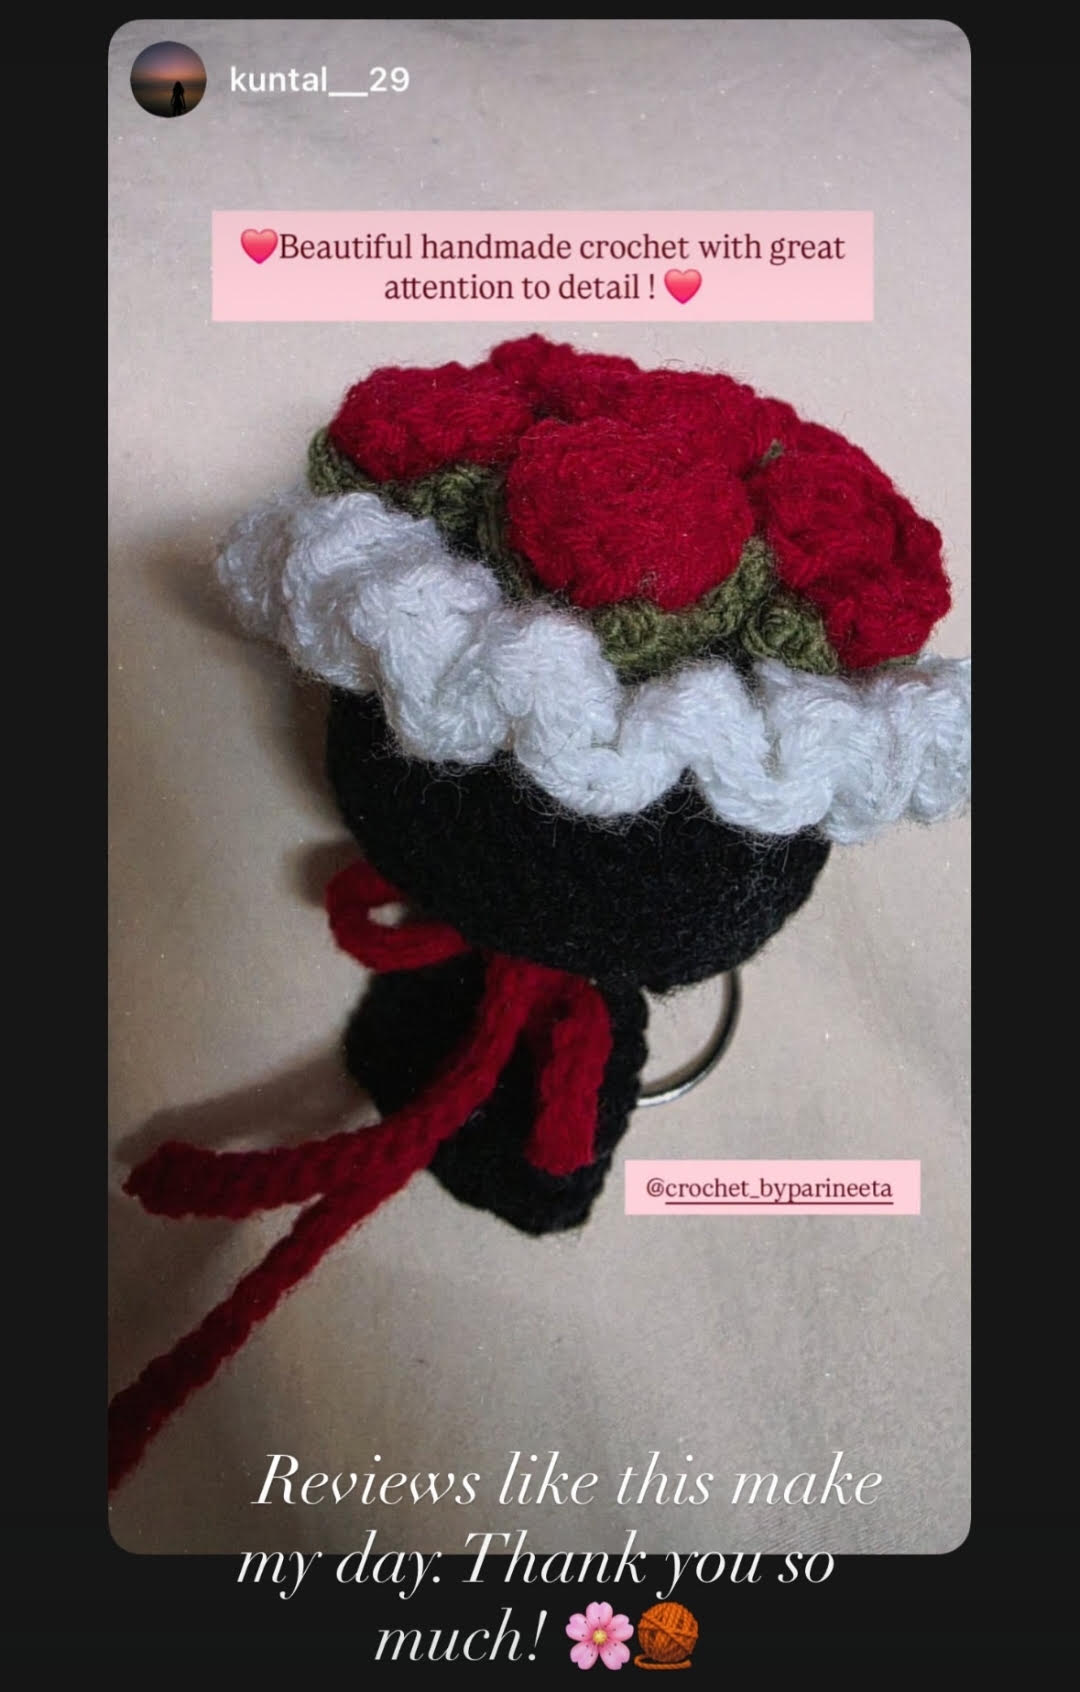
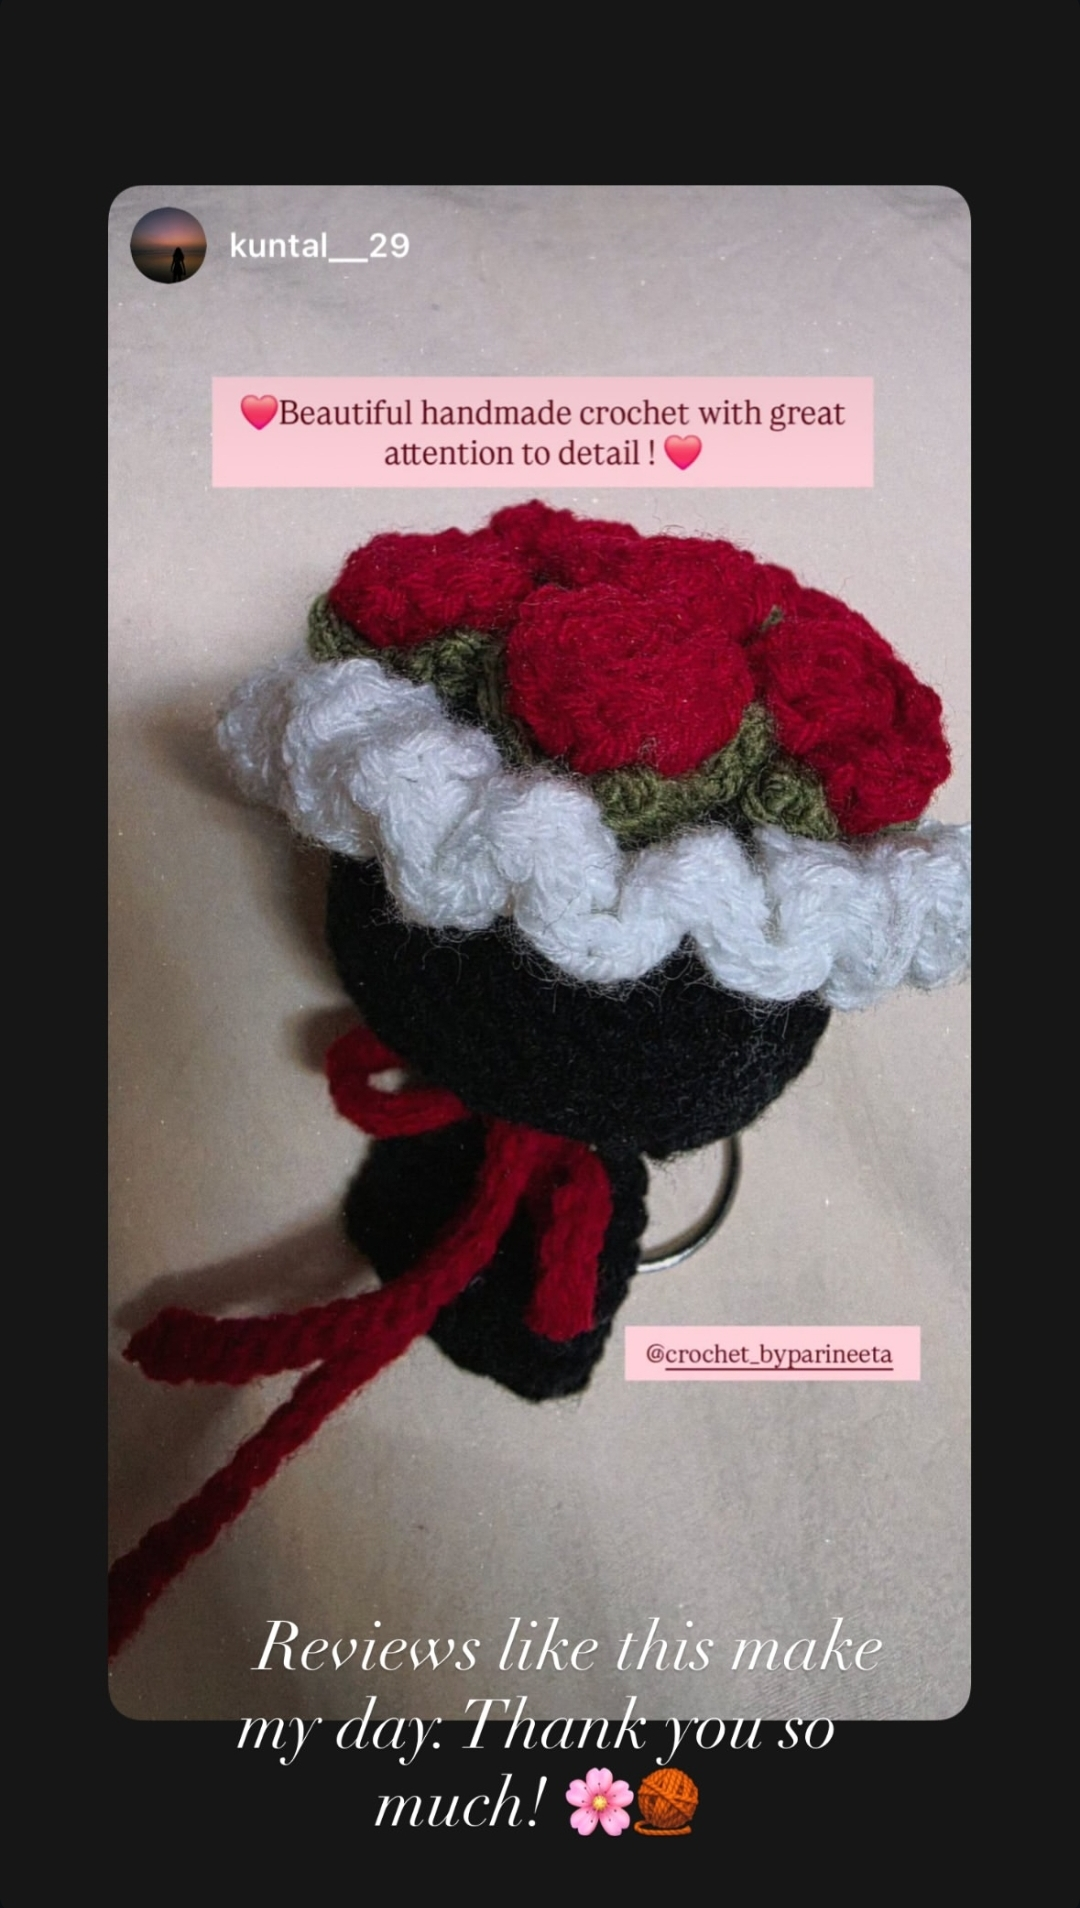
Added review3

diff --git a/css/style.css b/css/style.css
@@ -1172,7 +1172,9 @@ header{
 
     display:block;
 
-    border-radius:10px;
+    height:100%;
+
+    object-fit:contain;
 
 }
 